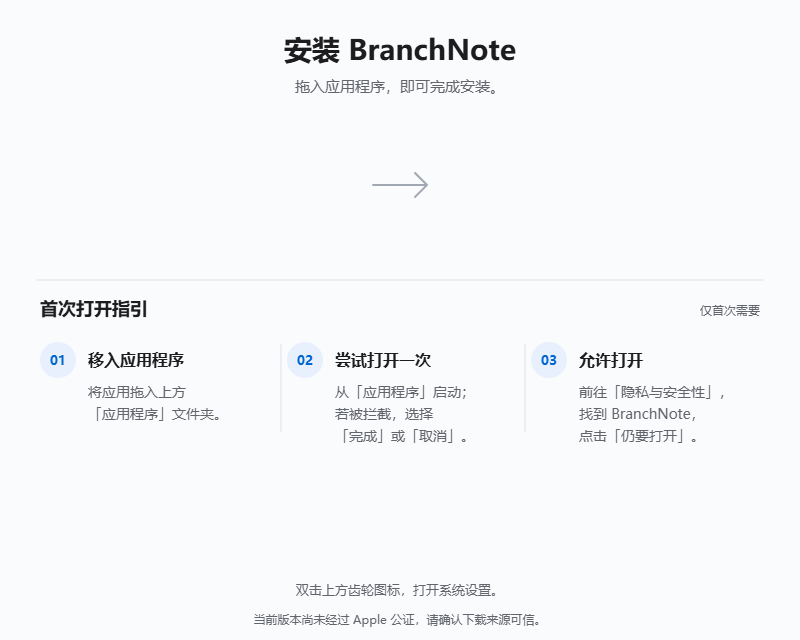
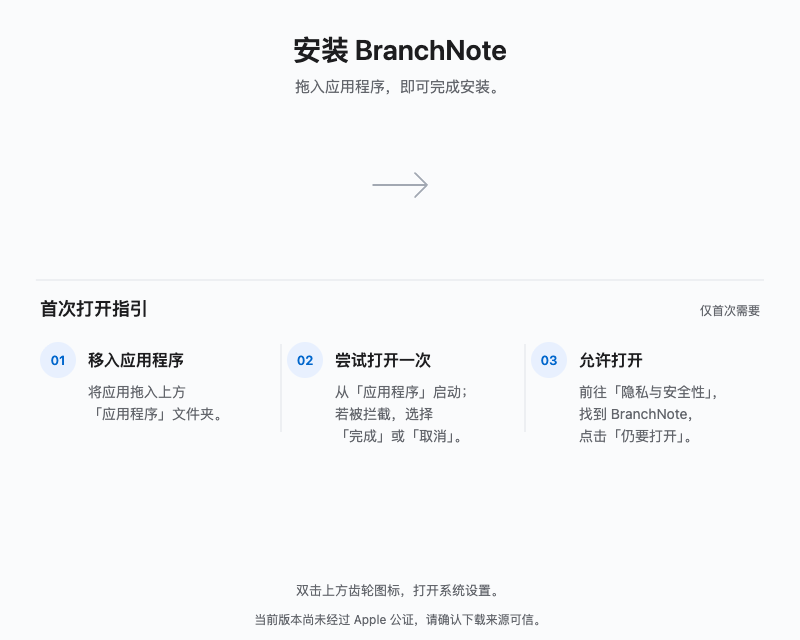
feat: 发布工作区与分支同步功能 v0.2.6

diff --git a/tasks/todo.md b/tasks/todo.md
@@ -118,3 +118,16 @@
 - pnpm build、7 类芯片识别检查、SEO/112 个站内引用及 git diff --check 通过；本地中韩字体覆盖检查通过。
 - 实际查看桌面菜单与下载区，菜单 End 导航、Escape 关闭恢复焦点、说明 Enter 展开通过；手机 375px 的冲突选择界面无横向溢出。新交互无自动循环，减少动态模式关闭新增过渡（静态规则核查）。
 - Google 验证文件已单独以 106fcea 提交部署，线上内容与用户提供文件一致；本轮 UI 按用户追加授权提交部署。
+
+## 2026-11-16 最新远程发行
+- [x] 检查工作区与维护规范并快进拉取 main 至 6bc82b8
+- [x] 执行测试与构建
+- [ ] 确认 GitHub 发布认证、版本与产物后发布
+
+### Review
+- 原工作区干净，已通过 HTTPS 拉取最新代码。pnpm test：112 通过、1 跳过、0 失败；pnpm run build 成功。当前运行 Node 20.18.1，Vite 给出版本提示；正式打包需切换现有 Node 24.22.1。
+- 尚未递增版本或打包：等待版本提交/推送授权与发布认证确认。
+
+- 已获提交、推送和发布授权；版本递增为 0.2.6。Node 24 生产构建、Mac 双架构打包完成。MR UI 过时夹具修复后完整回归通过。Windows Electron 官方资源下载中。
+
+- Windows 与 macOS 双架构使用官方 Electron45.2.3，下载资源 SHA256 已与官方清单核验。绕过本机损坏 DNS 使用官方 IP，不修改系统设置。Windows 打包进行中；待上传后核验附件 digest 与 latest。

diff --git a/docs/releases/v0.2.6.md b/docs/releases/v0.2.6.md
@@ -1,0 +1,10 @@
+# BranchNote v0.2.6
+
+- 新增当前分支与工作区面板，支持查看改动、暂存和取消暂存、提交及差异预览。
+- 新增分支与同步操作入口，支持创建、切换分支及 Fetch、Pull、Push。
+- 优化项目侧栏、分支跟进布局与 Git 操作状态反馈。
+- 修复并验证 MR 界面回归测试夹具。
+
+提供 Windows x64 安装版和便携版，以及 macOS Apple Silicon / Intel 的 DMG 与 ZIP。Windows 未签名；macOS 为本地签名，未经 Apple 公证。
+
+验证：112 项测试通过、1 项跳过，生产构建与 MR UI 回归通过。未进行 Windows 真机安装、跨版本升级及真实托管平台端到端验证。
